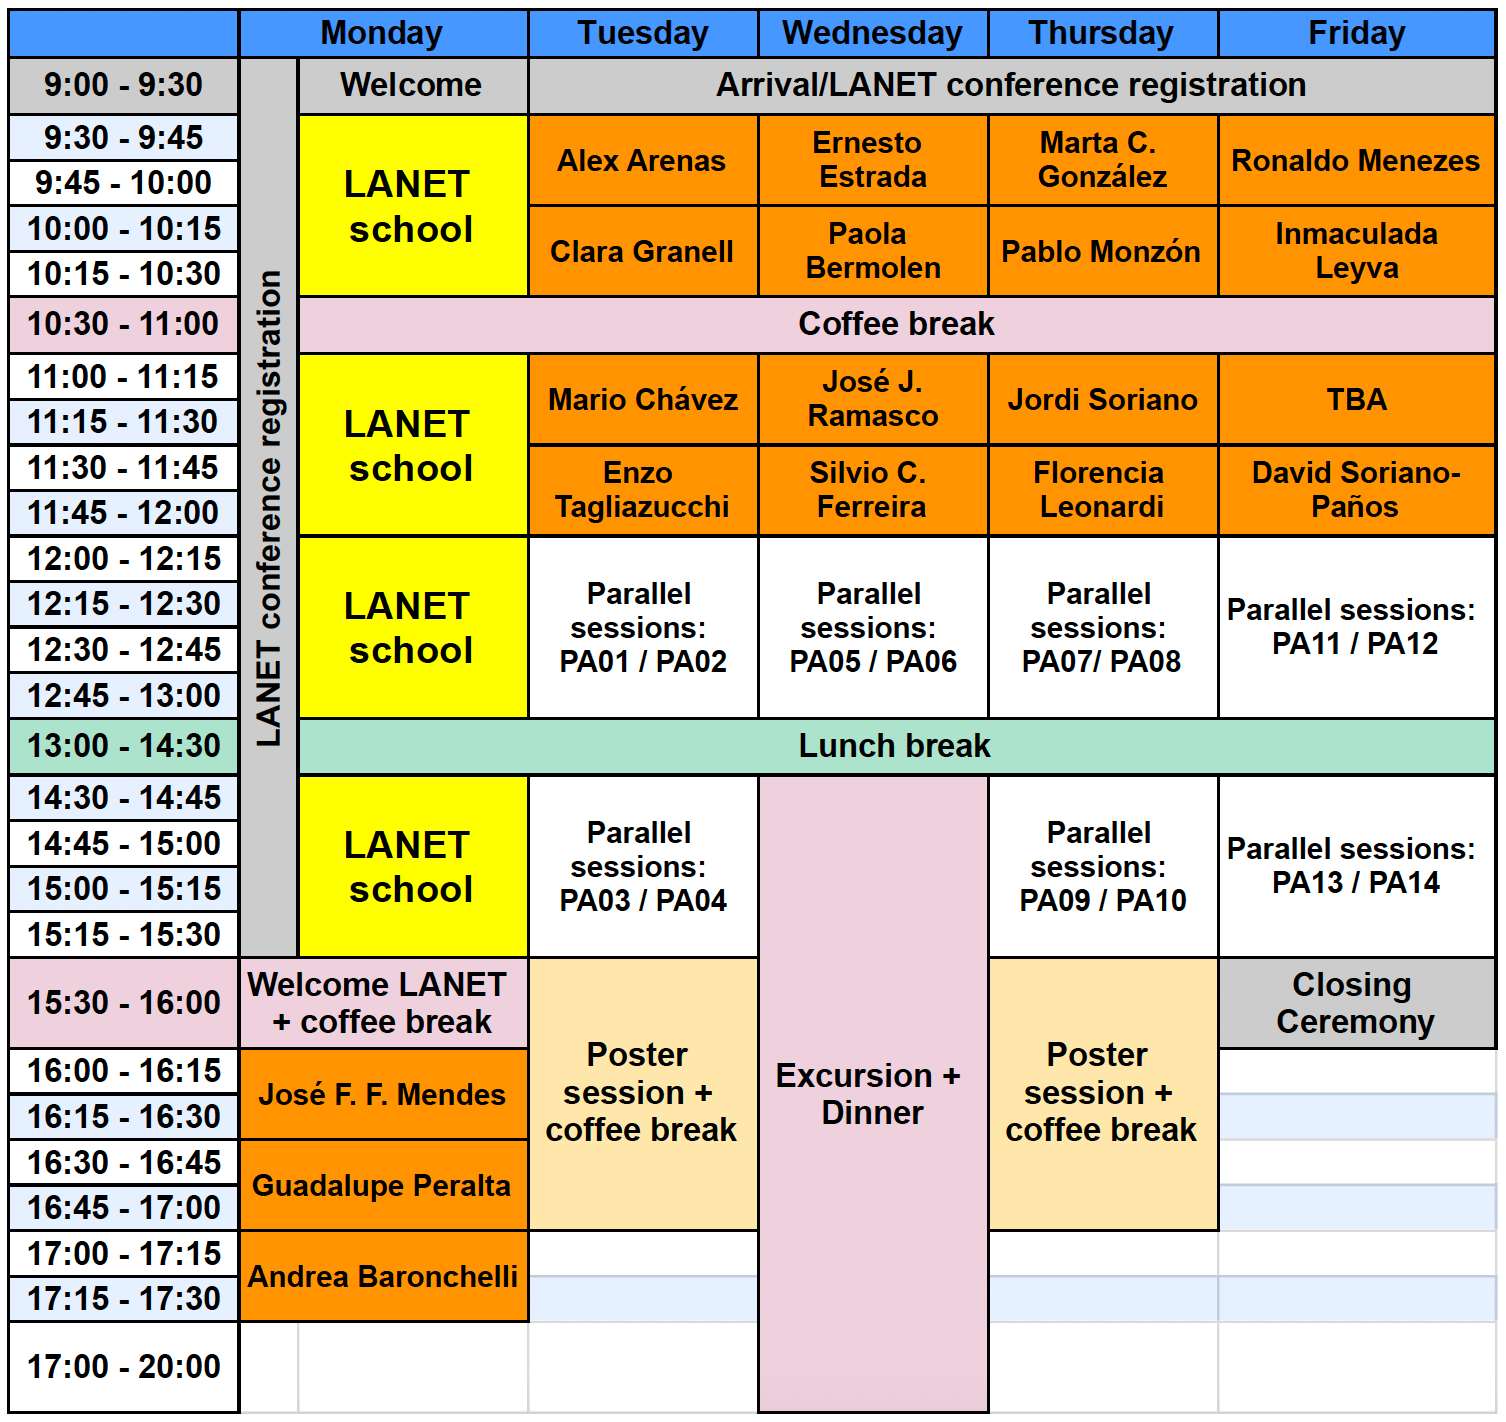
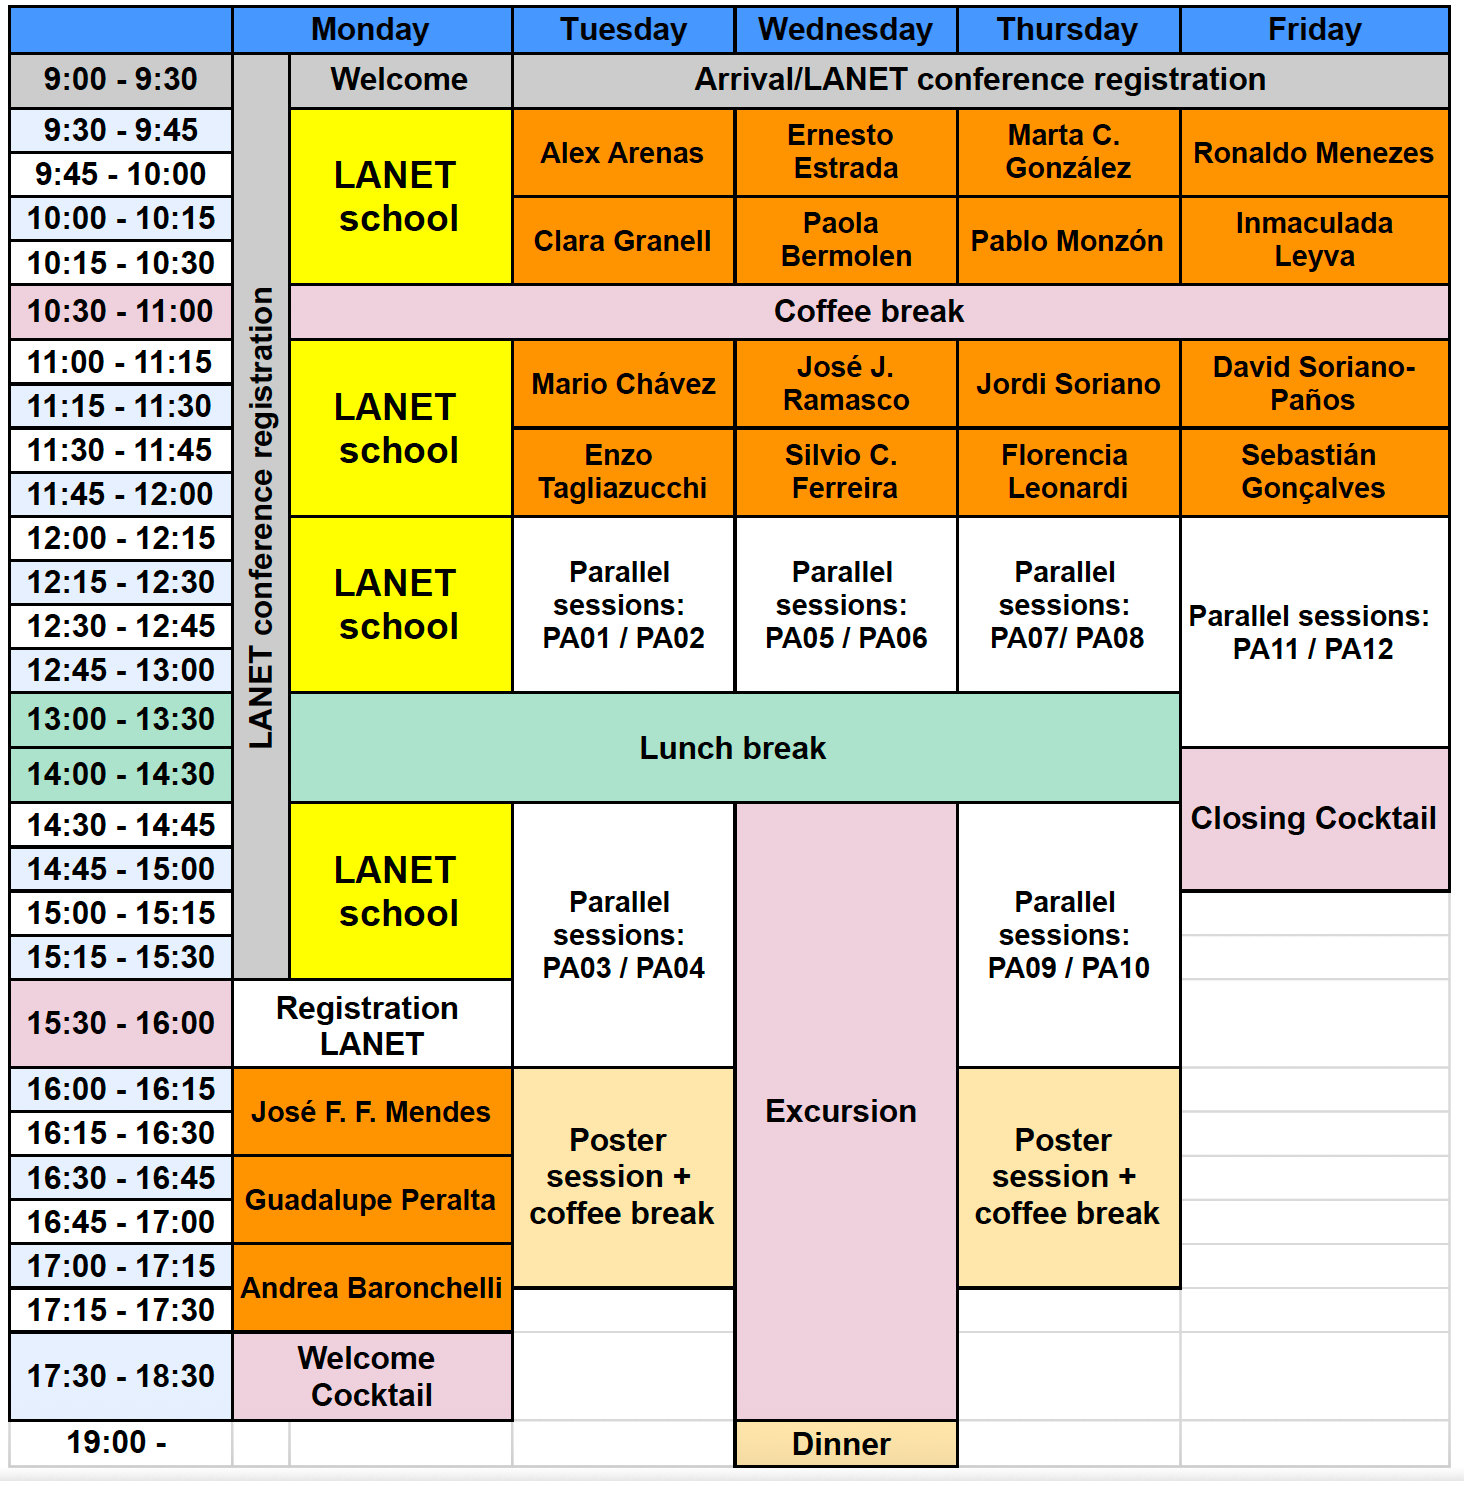
update program, parallel sesions and plenary speakers

diff --git a/index.html b/index.html
@@ -197,17 +197,17 @@ This meeting is also structured to encourage active participation from young sci
 				</div>
             </div>
             
-                       <div class="col-xs-6 col-sm-3 col-md-3" style="overflow:hidden">
+                     <div class="col-xs-6 col-sm-3 col-md-3" style="overflow:hidden">
 				<div class="wow bounceInUp" data-wow-delay="0.2s">
                 <div class="team boxed-grey">
                     <div class="inner">
-						<h5> <a href="https://hmakse.ccny.cuny.edu"> Hern&aacute;n Makse</a></h5>
-                        <p class="subtitle"> CCNY <br> New York <br> USA </p>
-                        <div class="avatar"><img src="img/team/makse.jpeg" alt="" class="img-responsive img-circle" style="width:100%;"/></div>
+						<h5> <a href="https://sorianolab.eu"> Jordi Soriano </a></h5>
+                        <p class="subtitle"> UB <br> Barcelona <br> Spain </p>
+                        <div class="avatar"><img src="img/team/jordi.jpeg" alt="" class="img-responsive img-circle" style="width:100%;"/></div>
                     </div>
                 </div>
 				</div>
-            </div>
+            </div>  
                 <div class="col-xs-6 col-sm-3 col-md-3" style="overflow:hidden">
 				<div class="wow bounceInUp" data-wow-delay="0.2s">
                 <div class="team boxed-grey">
@@ -394,18 +394,7 @@ This meeting is also structured to encourage active participation from young sci
             </div> 
 <div class="row">
         
-     
-                     <div class="col-xs-6 col-sm-3 col-md-3" style="overflow:hidden">
-				<div class="wow bounceInUp" data-wow-delay="0.2s">
-                <div class="team boxed-grey">
-                    <div class="inner">
-						<h5> <a href="https://sorianolab.eu"> Jordi Soriano </a></h5>
-                        <p class="subtitle"> UB <br> Barcelona <br> Spain </p>
-                        <div class="avatar"><img src="img/team/jordi.jpeg" alt="" class="img-responsive img-circle" style="width:100%;"/></div>
-                    </div>
-                </div>
-				</div>
-            </div>            
+            
 			            
 
               
@@ -500,23 +489,23 @@ This meeting is also structured to encourage active participation from young sci
     <th style="text-align: center;">Morning</th>
     <td><b>P01:</b> <br> Mojica-Nava <br> Almendral <br> Salimi</td>
 <td><b>P02:</b> <br> Seaman <br> Lopez <br> Borthagaray </td>
-<td><b>P05:</b> <br> Silva-Costa <br> Zabaleta-Ortega <br> Balenzuela</td>
+<td><b>P05:</b> <br> Silva-Costa <br> Cabana <br> Balenzuela</td>
 <td><b>P06:</b> <br> Alvarez <br> Pichardo <br> De Leon</td>
 <td><b>P07:</b> <br> Betancourt <br> Anzo <br> Angel </td>
-<td><b>P08:</b> <br> Vera-Avila <br> Mesa <br> Gutierrez</td>
-<td><b>P11:</b> <br> Espinosa <br> Brum <br> Cabana</td>
-<td><b>P12:</b><br> Perusquia <br> Emann <br>	Cusquen</td>
+<td><b>P08:</b> <br> Vera-Avila <br> Gutierrez <br> Usuga</td>
+<td><b>P11:</b> <br> Espinosa <br> Brum <br> Bello <br> Schmidt</td>
+<td><b>P12:</b><br> Perusquia <br> Combariza <br> Cusg&uuml;en</td>
   </tr>
 <tr >
     <th style="text-align: center;">Afternoon</th>
-    <td><b>P03:</b> <br> Gancio <br> Cayssials <br> Marenco</td>
-<td><b>P04:</b><br> Martinez <br> Bernal <br> Picasso </td>
+    <td><b>P03:</b> <br> Gancio <br> Cayssials <br> Marenco <br> Cicchini</td>
+<td><b>P04:</b><br> Bernal <br> Picasso <br> Garc&iacute;a-Usuga <br> Mesa</td>
 <td></td>
 <td></td>
-<td><b>P09:</b> <br>Cota <br>Maresca <br> Moraes </td>
-<td><b>P10:</b> <br>Chernomoretz <br>	Ribeiro <br> Casta&ntilde;o</td>
-<td><b>P13:</b> <br> Schmid <br> Estrada <br> Bello</td>
-<td><b>P14:</b> <br> Usuga <br> Aguirre <br> Combariza</td>
+<td><b>P09:</b> <br>Cota <br>Maresca <br> Moraes <br> Estrada</td>
+<td><b>P10:</b> <br>Chernomoretz <br>	Ribeiro <br> Casta&ntilde;o <br> Aguirre</td>
+<td></td>
+<td></td>
   </tr>
 </table>
 <div class="container">
